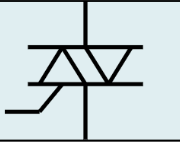
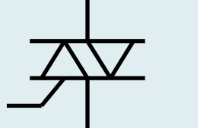
fix: Lec.5 图片修正

Changed region(s): [[0.0, 0.0, 1.0, 1.0]]

diff --git a/docs/lectures/lec5.md b/docs/lectures/lec5.md
@@ -32,13 +32,13 @@
 
 ---
 
-| 器件类型           | 标志                               | 控制类型 | 功率等级 | 切换速度 |
-| ------------------ | ---------------------------------- | -------- | -------- | -------- |
-| 晶闸管 (SCR)       | ![scr](lec5.assets/image-19.png)   | 半可控   | 非常高   | 慢       |
-| 双向晶闸管 (TRIAC) | ![triac](lec5.assets/image-30.png) | 半可控   | 中等     | 慢       |
-| 可关断晶闸管 (GTO) | ![gto](lec5.assets/image-36.png)   | 完全可控 | 高       | 慢       |
-|                    |                                    |          |          |          |
-|                    |                                    |          |          |          |
+| 器件类型                    | 标志                                | 控制类型 | 功率等级 | 切换速度 | 换流方式   | 供电方式    |
+| --------------------------- | ----------------------------------- | -------- | -------- | -------- | ---------- | ----------- |
+| 晶闸管 (SCR)                | ![scr](lec5.assets/image-19.png)    | 半可控   | 非常高   | 慢       | 自然换流   | 交流        |
+| 双向晶闸管 (TRIAC / SSR)    | ![traic](lec5.assets/image-30.png)  | 半可控   | 中等     | 慢       | 自然换流   | 交流        |
+| 可关断晶闸管 (GTO)          | ![gto](lec5.assets/image-36.png)    | 完全可控 | 高       | 慢       | 自强迫换流 | 交流 & 直流 |
+| 场效应管 (MOSFET)           | ![mosfet](lec5.assets/image-40.png) | 完全可控 | 中等     | 快       | 自强迫换流 | 直流        |
+| 绝缘栅极双极型晶体管 (IGBT) | ![igbt](lec5.assets/image-39.png)   | 完全可控 | 高       | 中等     | 自强迫换流 | 直流        |
 
 ## 晶闸管 (SCR)
 